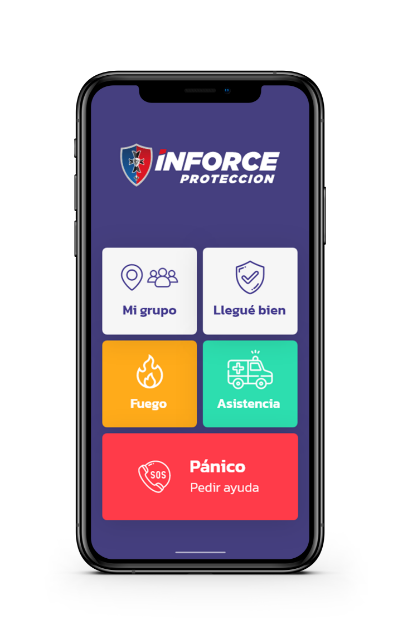
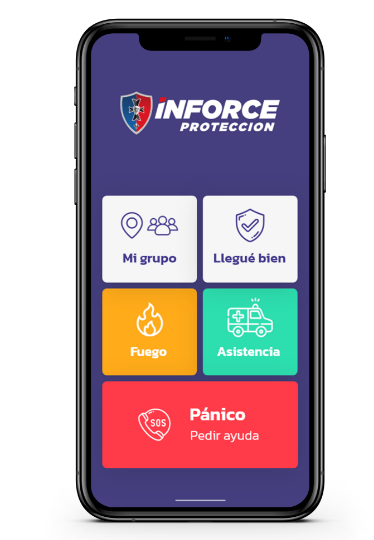
fixes

diff --git a/pages/servicios-seguridad-virtual.html b/pages/servicios-seguridad-virtual.html
@@ -84,7 +84,7 @@
                 controles y seguimientos para brindar protección en todo momento.</p>
             <div class="row space2">
                 <div class="col-sm text-sm-start virt-trajetas">
-                    <div style="box-shadow: 0px 10px 45px #00000026;">
+                    <div>
                         <img class="w-100" src="../img/seguridadvirtual/img-seguridadPerimetral.png"
                             alt="analisis complejo">
                         <div class="virt-inner">
@@ -105,7 +105,7 @@
                     </div>
                 </div>
                 <div class="col-sm text-sm-start text-center virt-trajetas">
-                    <div style="box-shadow: 0px 10px 45px #00000026;">
+                    <div>
                         <img class="w-100" src="../img/seguridadvirtual/img-seguridadPerimetral-6.png"
                             alt="analisis complejo">
                         <div class="virt-inner">
@@ -136,7 +136,7 @@
                     </div>
                 </div>
                 <div class="col-sm text-sm-start text-center virt-trajetas">
-                    <div style="box-shadow: 0px 10px 45px #00000026;">
+                    <div>
                         <img class="w-100" src="../img/seguridadvirtual/img-seguridadPerimetral-7.png"
                             alt="analisis complejo">
                         <div class="virt-inner">
@@ -159,7 +159,7 @@
             </div>
             <div class="row space2">
                 <div class="col-sm text-sm-start text-center virt-trajetas">
-                    <div style="box-shadow: 0px 10px 45px #00000026;">
+                    <div>
                         <img class="w-100" src="../img/seguridadvirtual/img-seguridadPerimetral-1.png"
                             alt="analisis complejo">
                         <div class="virt-inner">
@@ -180,7 +180,7 @@
                     </div>
                 </div>
                 <div class="col-sm text-sm-start text-center virt-trajetas">
-                    <div style="box-shadow: 0px 10px 45px #00000026;">
+                    <div>
                         <img class="w-100" src="../img/seguridadvirtual/img-seguridadPerimetral-2.png"
                             alt="analisis complejo">
                         <div class="virt-inner">
@@ -201,7 +201,7 @@
                     </div>
                 </div>
                 <div class="col-sm text-sm-start text-center virt-trajetas">
-                    <div style="box-shadow: 0px 10px 45px #00000026;">
+                    <div>
                         <img class="w-100" src="../img/seguridadvirtual/img-seguridadPerimetral-5.png"
                             alt="analisis complejo">
                         <div class="virt-inner">
@@ -224,7 +224,7 @@
             </div>
             <div class="row space2">
                 <div class="col-sm text-sm-start text-center virt-trajetas">
-                    <div style="box-shadow: 0px 10px 45px #00000026;">
+                    <div>
                         <img class="w-100" src="../img/seguridadvirtual/img-seguridadPerimetral-3.png"
                             alt="analisis complejo">
                         <div class="virt-inner">
@@ -245,7 +245,7 @@
                     </div>
                 </div>
                 <div class="col-sm text-sm-start text-center virt-trajetas">
-                    <div style="box-shadow: 0px 10px 45px #00000026;">
+                    <div>
                         <img class="w-100" src="../img/seguridadvirtual/img-seguridadPerimetral-4.png"
                             alt="analisis complejo">
                         <div class="virt-inner">
@@ -321,6 +321,8 @@
     <!--SCRYPTS-->
     <!--JQUERY-->
     <script src="https://cdnjs.cloudflare.com/ajax/libs/jquery/3.6.0/jquery.min.js"></script>
+    <!--OWL-CAROUSEL-->
+  <script src="https://cdnjs.cloudflare.com/ajax/libs/OwlCarousel2/2.3.4/owl.carousel.min.js"></script>
 
     <script src="https://cdnjs.cloudflare.com/ajax/libs/OwlCarousel2/2.3.4/owl.carousel.min.js"></script>
     <!--VALIDATOR-->

diff --git a/pages/servicios-app.html b/pages/servicios-app.html
@@ -89,29 +89,29 @@
         <div class="container space2">
             <h2 class="ka-32 color text-center space">Una app para cuidarte</h2>
             <p class="ka-20 text-center med">Conocé qué podés hacer con la app:</p>
-            <div class="row">
+            <div class="row space2">
                 <div class="col-sm-6 px-0 c1">
                     <img class="img-app" src="../img/app/mock-up-inforce.png"
                         alt="app inforce">
                 </div>
-                <div class="col-sm-6 sec6-inner c2">
+                <div class="col-sm-6 s-inner p-0 c2">
                     <div>
-                        <p class="no-16 inner-app">Mi Grupo: Active la seguridad grupal para sumar otros miembros de su familia y conocer 
+                        <p class="no-16 inner-app my-0">Mi Grupo: Active la seguridad grupal para sumar otros miembros de su familia y conocer 
                             su ubicación en tiempo real, recibir sus alertas por emergencias y conocer cuando ingresan 
                             o salgan de distintos lugares.</p>
                     </div>
 
                     <div>
-                        <p class="no-16 inner-app">Presione pánico para notificar una emergencia personal, robo o secuestro.</p>
+                        <p class="no-16 inner-app my-0"">Presione pánico para notificar una emergencia personal, robo o secuestro.</p>
                     </div>
                     <div>
-                        <p class="no-16 inner-app">Presione asistencia si ha sufrido un accidente y requiere asistencia médica de urgencia.</p>
+                        <p class="no-16 inner-app my-0"">Presione asistencia si ha sufrido un accidente y requiere asistencia médica de urgencia.</p>
                     </div>
                     <div>
-                        <p class="no-16 inner-app">Presione llegue bien para notificar su ubicación de forma inmediata.</p>
+                        <p class="no-16 inner-app my-0"">Presione llegue bien para notificar su ubicación de forma inmediata.</p>
                     </div>
                     <div>
-                        <p class="no-16 inner-app">Presione fuego para notificar un incendio.</p>
+                        <p class="no-16 inner-app my-0"">Presione fuego para notificar un incendio.</p>
                     </div>
                    
                 </div>
@@ -168,7 +168,7 @@
     <!--SCRYPTS-->
     <!--JQUERY-->
     <script src="https://cdnjs.cloudflare.com/ajax/libs/jquery/3.6.0/jquery.min.js"></script>
-
+    <!--OWL-CAROUSEL-->
     <script src="https://cdnjs.cloudflare.com/ajax/libs/OwlCarousel2/2.3.4/owl.carousel.min.js"></script>
     <!--VALIDATOR-->
     <script src="https://cdn.jsdelivr.net/npm/jquery-validation@1.19.3/dist/jquery.validate.js"></script>

diff --git a/pages/trajabaja-con-nosotros.html b/pages/trajabaja-con-nosotros.html
@@ -114,8 +114,19 @@
                                 <span id="error" class="help-block"></span>
                             </div>
                             <div class="form-group mb-2">
-                                <label class="m-14 " for="">Adjunta tu cv</label>
-                                <input type="file" name="attachment" class="form-control">
+                                <div class="invoiceBox">
+                                    <label for="file">
+                                      <div class="boxFile" data-text="Adjuntá tu CV">
+                                        Adjuntá tu CV
+                                      </div>
+                                    </label>
+                                    <input id="file" multiple="" name="invoice[]" size="6000" type="file" accept="application/pdf,application/pdf">
+                                  </div>
+
+                                  <!--
+                                <label for="btn-file" class="ka-20">Adjuntá tu CV</label>
+                                <input id="btn-file" type="file" name="attachment" class="form-control">hola
+                                -->
                             </div>
                             <div class="form-group mb-2">
                                 <label class="m-14" for="">Presentación</label>
@@ -146,6 +157,8 @@
     <!--SCRYPTS-->
     <!--JQUERY-->
     <script src="https://cdnjs.cloudflare.com/ajax/libs/jquery/3.6.0/jquery.min.js"></script>
+    <!--OWL-CAROUSEL-->
+  <script src="https://cdnjs.cloudflare.com/ajax/libs/OwlCarousel2/2.3.4/owl.carousel.min.js"></script>
     <!--VALIDATOR-->
     <script src="https://cdn.jsdelivr.net/npm/jquery-validation@1.19.3/dist/jquery.validate.js"></script>
     <!--BOOTSTRAP-->

diff --git a/css/pages.css b/css/pages.css
@@ -27,6 +27,45 @@
   color: #fff;
 }
 
+
+
+
+#trab-nosotros .invoiceBox > input {
+  display: none;
+}
+#trab-nosotros .invoiceBox label {
+	display: block;
+}
+#trab-nosotros .boxFile {
+  font-weight: 600;
+	display: inline-block;
+  width: 100%;
+  box-shadow: 0px 20px 45px #0000001A;
+  background: #fff;
+  color: #312783;
+  padding: 10px;
+  text-align: center;
+  font-weight: 500;
+  font-size: 14px;
+  -webkit-transition: all 0.3s;
+  transition: all 0.3s;
+}
+#trab-nosotros .boxFile:hover {
+	cursor: pointer;
+	background: #312783;
+	color: #fff;
+}
+#trab-nosotros .boxFile i {
+	display: block;
+	font-size: 26px;
+	margin-bottom: 5px;
+}
+#trab-nosotros .attached,
+#trab-nosotros .attached:hover,
+#trab-nosotros .attached:focus {
+	background: #312783;
+	color: #fff;
+}
 /*SEGURIDAD FISICA*/
 /*BANNER*/
 
@@ -110,7 +149,7 @@
 #seg-virtual .virt-inner {
   background: #fff;
   padding: 25px;
-  border-radius: 0 0 8px 8px;
+  border-radius:0 0 8px 8px;
   height: 350px;
 }
 #seg-virtual .virt-inner h4 {
@@ -119,6 +158,13 @@
 #seg-virtual .virt-trajetas img {
   border-radius: 8px 8px 0 0;
 }
+#seg-virtual .virt-trajetas  div {
+  box-shadow: 0px 10px 45px #00000026; 
+  border-radius: 0 0 8px 8px;
+}
+
+
+
 @media (max-width: 425px) {
   #seg-virtual .virt-trajetas {
     margin-bottom: 20px;
@@ -203,8 +249,15 @@
 }
 #app .img-app {
   width: 100%;
+  height: 90%;
 }
 
+#app .s-inner {
+   border-radius: 8px 0 0 8px;
+}
+#app .s-inner div {
+  margin-bottom: 40px;
+}
 /*SERVICIO DE LIMPIEZA*/
 /*BANNER*/
 

diff --git a/js/index.js b/js/index.js
@@ -29,3 +29,29 @@ $("#owl1").owlCarousel({
       },
     },
   });
+
+
+
+
+
+
+
+  /*Form de cv */
+
+  document.querySelector('#file').addEventListener('change', function(e) {
+    var boxFile = document.querySelector('.boxFile');
+    boxFile.classList.remove('attached');
+    boxFile.innerHTML = boxFile.getAttribute("data-text");
+    if(this.value != '') {
+      var allowedExtensions = /(\.pdf|\.doc)$/i;
+      if(allowedExtensions.exec(this.value)) {
+        boxFile.innerHTML = e.target.files[0].name;
+        console.log(e.target.files[0].name)
+        boxFile.classList.add('attached');
+      } else {
+        this.value = '';
+        alert('El archivo que intentas subir no está permitido.\nLos archivos permitidos son .pdf, .jpg, .jpeg, .png, .gif y .tiff');
+        boxFile.classList.remove('attached');
+      }
+    }
+  });

diff --git a/css/style.css b/css/style.css
@@ -156,7 +156,7 @@ body {
   background-size: cover;
   background-repeat: no-repeat;
   background-position: 30% 0%;
-  height: 420px;
+  height: 500px;
   text-align: center;
 }
 .banner-titulo {
@@ -195,6 +195,7 @@ body {
   padding: 10% 10% 0 10%;
 }
 .sec2-btn {
+  font-weight: 500;
   background: transparent;
   box-shadow: 0px 20px 45px #0000001a;
   border: 2px solid #ffffff;
@@ -202,9 +203,20 @@ body {
   padding: 5px 31px 5px 31px;
   color: #fff;
 }
+.sec2-btn:hover {
+  background: #fff;
+ 
+  color: #312783;
+  
+}
+
+
 .t {
   width: 90%;
 
+}
+.t:hover {
+  border: 3px solid #0d0d0e00;
 }
 @media (min-width: 1025px) {
   .sec2-tarjeta {
@@ -219,6 +231,7 @@ body {
     0% no-repeat padding-box;
   padding: 50px !important;
   box-shadow: 0px 10px 45px #0000001a;
+  border-radius: 8px;
 }
 .sec4-titulo {
   margin-top: 16%;

diff --git a/pages/contacto.html b/pages/contacto.html
@@ -138,12 +138,14 @@
     <div class="footer space">
         <img class="footer-img" src="../img/logos/logo-Inforce-footer.svg" alt="inforce logo">
         <a href="https://wa.me/">
-            <img class="icon-wp" src="../img/whatsapp_logo_icon_147205.svg" alt="">
+            <img class="icon-wp" src="../img/whatsapp_logo_icon_147205.svg" alt="boton whatssap">
         </a>
     </div>
     <!--SCRYPTS-->
     <!--JQUERY-->
     <script src="https://cdnjs.cloudflare.com/ajax/libs/jquery/3.6.0/jquery.min.js"></script>
+    <!--OWL-CAROUSEL-->
+  <script src="https://cdnjs.cloudflare.com/ajax/libs/OwlCarousel2/2.3.4/owl.carousel.min.js"></script>
     <!--VALIDATOR-->
     <script src="https://cdn.jsdelivr.net/npm/jquery-validation@1.19.3/dist/jquery.validate.js"></script>
     <!--BOOTSTRAP-->

diff --git a/enviar.php b/enviar.php
@@ -5,6 +5,47 @@ $mail = $_POST['email'];
 $phone = $_POST['phone'];
 $msj = $_POST['mensaje'];
 
+
+$uploadStatus = 1;
+            
+// Upload attachment file
+if(!empty($_FILES["attachment"]["name"])){
+    
+    // File path config
+    $targetDir = "uploads/";
+    $fileName = basename($_FILES["attachment"]["name"]);
+    $targetFilePath = $targetDir . $fileName;
+    $fileType = pathinfo($targetFilePath,PATHINFO_EXTENSION);
+    
+    // Allow certain file formats
+    $allowTypes = array('pdf', 'doc', 'docx', 'jpg', 'png', 'jpeg');
+    if(in_array($fileType, $allowTypes)){
+        // Upload file to the server
+        if(move_uploaded_file($_FILES["attachment"]["tmp_name"], $targetFilePath)){
+            $uploadedFile = $targetFilePath;
+        }else{
+            $uploadStatus = 0;
+            $statusMsg = "Sorry, there was an error uploading your file.";
+        }
+    }else{
+        $uploadStatus = 0;
+        $statusMsg = 'Sorry, only PDF, DOC, JPG, JPEG, & PNG files are allowed to upload.';
+    }
+}
+
+
+
+
+
+
+
+
+
+
+
+
+
+
 $header = 'From: ' . $mail . " \r\n";
 $header .= "X-Mailer: PHP/" . phpversion() . " \r\n";
 $header .= "Mime-Version: 1.0 \r\n";
